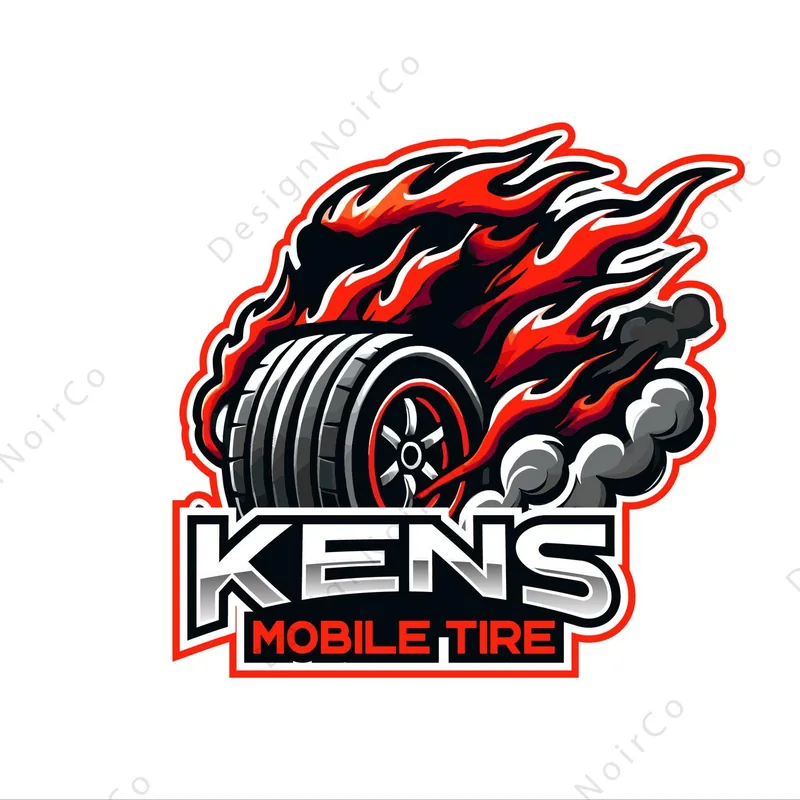
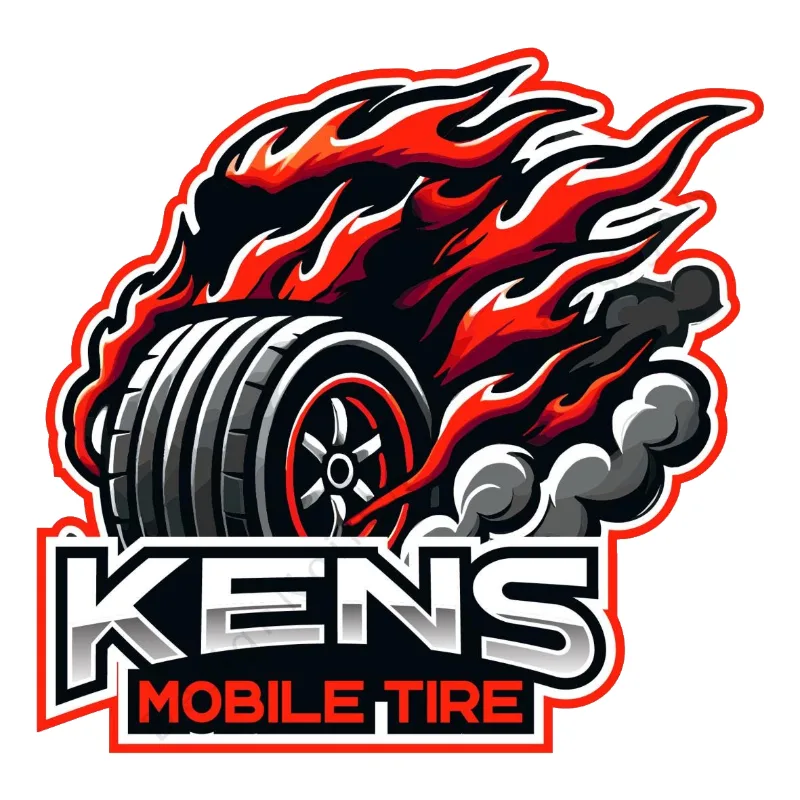
Regenerate the brand assets on black, on consistent ratios
Two changes only: the dark ground becomes the site black #080808, and the
four lockups and four badges go onto consistent ratios. Composition, the
marks and brand red #ed1c24 are untouched; filenames are unchanged and
every reference carries ?v=2 against the one-day /brand/* cache.

The lockup artwork is square (1209x1220 measured in the master), so
kens-light-* at 2:1 were letterboxes of it with large empty margins. All
four lockups are now 1200x1028 and 600x514 -- the numbers CustomerRequest
already declared -- so the images match the markup rather than the
attributes needing to change. All four badges are exactly 800x800.

The five icons go from 584 KB to 190 KB, icon-512 alone from 424 KB to
140 KB. Chromium only writes 32-bit PNG and made icon-512 larger, so the
icons are palette-indexed PNG from a median-cut quantiser on node:zlib.
No new dependency.

The t61 band existed because the logo files carried a navy ground baked
in. Regenerated on #080808 that reason is gone, so the band follows the
ground. Two navies were spelled rgba(13, 27, 36, 0.94) where no hex grep
reaches them, and .customer-shell .site-nav outranks the t61 block, so
the nav stayed navy through a fully green audit run until getComputedStyle
on the built page caught it.

Flattening the ground removes the seller's mark wherever it sat on flat
ground: the lockups and og image now measure 100.0% flat, 1.00:1 across
the margin band, against 1.38:1 on kens-light-1200 before. Where it
[…]

diff --git a/src/routes/CustomerRequest.jsx b/src/routes/CustomerRequest.jsx
@@ -432,8 +432,8 @@ function CustomerRequest({ navigate }) {
   const nextPageCount = Math.min(TIRE_PAGE_SIZE, hiddenTireCount)
   return (
     <div className="min-h-screen customer-shell">
-      <nav className="site-nav"><button className="brand-mark" onClick={() => navigate('/')} aria-label="KMT home"><img src="/brand/kens-dark-600.webp" alt="Ken's Mobile Tire" width="600" height="514" /></button><div className="site-links"><button className="active" onClick={() => document.getElementById('order')?.scrollIntoView({ behavior: 'smooth' })}>Order Tires</button><button onClick={() => document.getElementById('services')?.scrollIntoView({ behavior: 'smooth' })}>Services</button><button onClick={() => navigate('/status')}>My Quote</button></div><a className="phone-link" href={TEXT_HREF}>{TEXT_LABEL}</a></nav>
-      <section className="hero-section"><div className="hero-copy"><p className="eyebrow">I COME TO YOU</p><h1 data-testid="hero-heading">Mobile Tire<br /><span>Service</span></h1><p className="hero-lede">Tires. Repairs. Roadside assistance.<br />You deal with me, start to finish.</p><button className="hero-cta" onClick={() => document.getElementById('order')?.scrollIntoView({ behavior: 'smooth' })}>Order Tires <span>→</span></button></div><div className="hero-visual" aria-label="Ken's Mobile Tire brand"><img className="hero-logo" src="/brand/kens-dark-1200.webp" srcSet="/brand/kens-dark-600.webp 600w, /brand/kens-dark-1200.webp 1200w" sizes="(max-width: 760px) 72vw, 420px" width="1200" height="1028" alt="Ken's Mobile Tire logo" /><span className="hero-visual-label">REAL MOBILE SERVICE / BOSTON</span></div></section>
+      <nav className="site-nav"><button className="brand-mark" onClick={() => navigate('/')} aria-label="KMT home"><img src="/brand/kens-dark-600.webp?v=2" alt="Ken's Mobile Tire" width="600" height="514" /></button><div className="site-links"><button className="active" onClick={() => document.getElementById('order')?.scrollIntoView({ behavior: 'smooth' })}>Order Tires</button><button onClick={() => document.getElementById('services')?.scrollIntoView({ behavior: 'smooth' })}>Services</button><button onClick={() => navigate('/status')}>My Quote</button></div><a className="phone-link" href={TEXT_HREF}>{TEXT_LABEL}</a></nav>
+      <section className="hero-section"><div className="hero-copy"><p className="eyebrow">I COME TO YOU</p><h1 data-testid="hero-heading">Mobile Tire<br /><span>Service</span></h1><p className="hero-lede">Tires. Repairs. Roadside assistance.<br />You deal with me, start to finish.</p><button className="hero-cta" onClick={() => document.getElementById('order')?.scrollIntoView({ behavior: 'smooth' })}>Order Tires <span>→</span></button></div><div className="hero-visual" aria-label="Ken's Mobile Tire brand"><img className="hero-logo" src="/brand/kens-dark-1200.webp?v=2" srcSet="/brand/kens-dark-600.webp?v=2 600w, /brand/kens-dark-1200.webp?v=2 1200w" sizes="(max-width: 760px) 72vw, 420px" width="1200" height="1028" alt="Ken's Mobile Tire logo" /><span className="hero-visual-label">REAL MOBILE SERVICE / BOSTON</span></div></section>
       <section className="service-strip" id="services"><div><strong>◉</strong><span><b>I COME TO YOU</b>Home, work or roadside</span></div><div><strong>≡</strong><span><b>PRICE UP FRONT</b>See the whole quote before I turn up</span></div><div><strong>✓</strong><span><b>QUALITY SERVICE</b>Professional care every time</span></div><button className="btn btn-neutral" onClick={() => navigate('/inquiry')}>More than tires? Tell me</button></section>
       <main className="order-section" id="order"><div className="section-heading"><p className="eyebrow">SHOP KMT</p><h2>Order tires online</h2><p>Find the right fit for your vehicle and I&apos;ll handle the rest.</p></div><div className="order-steps" aria-label="Order progress">{['Tire size', 'Your vehicle', 'Mobile service'].map((label, index) => <div className={orderStep === index + 1 ? 'order-step current' : orderStep > index + 1 ? 'order-step complete' : 'order-step'} key={label}><span>{index + 1}</span><b>{label}</b></div>)}</div>
         <form noValidate onSubmit={handleFormSubmit} className="order-form">

diff --git a/src/routes/Inquiry.jsx b/src/routes/Inquiry.jsx
@@ -12,5 +12,5 @@ export default function Inquiry({ navigate }) {
     event.preventDefault(); setError(''); setSending(true)
     try { await submitInquiry(form); setSent(true) } catch (failure) { setError(failure.message) } finally { setSending(false) }
   }
-  return <div className="app-shell status-shell"><nav className="internal-nav"><button className="brand-word" onClick={() => navigate('/')} aria-label="KMT home"><img src="/brand/icon-64.png" alt="" width="64" height="64" className="brand-mark-icon" />KEN&apos;S<span> MOBILE TIRE</span></button><div className="internal-nav-links"><button className="btn btn-neutral" onClick={() => navigate('/')}>← Order tires</button></div></nav><main className="owner-content inquiry-page"><p className="eyebrow">MORE THAN TIRES</p><h1 className="owner-heading">Tell me what you need</h1>{sent ? <section className="panel inquiry-received" role="status"><h2>I got your message.</h2><p>I&apos;ll read it and text you back using the contact you left.</p><button className="btn btn-primary" onClick={() => navigate('/')}>Order tires instead</button></section> : <form className="panel inquiry-form" onSubmit={submit} noValidate><p>Flat repairs, roadside help and anything else that keeps you moving.</p><label>Name<input name="name" value={form.name} onChange={change} autoComplete="name" required /></label><label>Phone or email<input name="contact" value={form.contact} onChange={change} autoComplete="email" required /></label><label>Vehicle (optional)<input name="vehicleInfo" value={form.vehicleInfo} onChange={change} /></label><label>What do you need?<textarea name="message" value={form.message} onChange={change} required rows="5" /></label>{error && <p className="status-note status-note-bad" role="alert">{error}</p>}<button className="btn btn-primary" disabled={sending}>{sending ? 'Sending…' : 'Send message'}</button></form>}</main><PrivacyFooter navigate={navigate} /></div>
+  return <div className="app-shell status-shell"><nav className="internal-nav"><button className="brand-word" onClick={() => navigate('/')} aria-label="KMT home"><img src="/brand/icon-64.png?v=2" alt="" width="64" height="64" className="brand-mark-icon" />KEN&apos;S<span> MOBILE TIRE</span></button><div className="internal-nav-links"><button className="btn btn-neutral" onClick={() => navigate('/')}>← Order tires</button></div></nav><main className="owner-content inquiry-page"><p className="eyebrow">MORE THAN TIRES</p><h1 className="owner-heading">Tell me what you need</h1>{sent ? <section className="panel inquiry-received" role="status"><h2>I got your message.</h2><p>I&apos;ll read it and text you back using the contact you left.</p><button className="btn btn-primary" onClick={() => navigate('/')}>Order tires instead</button></section> : <form className="panel inquiry-form" onSubmit={submit} noValidate><p>Flat repairs, roadside help and anything else that keeps you moving.</p><label>Name<input name="name" value={form.name} onChange={change} autoComplete="name" required /></label><label>Phone or email<input name="contact" value={form.contact} onChange={change} autoComplete="email" required /></label><label>Vehicle (optional)<input name="vehicleInfo" value={form.vehicleInfo} onChange={change} /></label><label>What do you need?<textarea name="message" value={form.message} onChange={change} required rows="5" /></label>{error && <p className="status-note status-note-bad" role="alert">{error}</p>}<button className="btn btn-primary" disabled={sending}>{sending ? 'Sending…' : 'Send message'}</button></form>}</main><PrivacyFooter navigate={navigate} /></div>
 }

diff --git a/src/App.css b/src/App.css
@@ -192,7 +192,7 @@
   margin: 0 !important;
   padding: 13px clamp(18px, 4vw, 54px);
   border-bottom: 1px solid #171717;
-  background: rgba(13, 27, 36, 0.94);
+  background: rgba(8, 8, 8, 0.94);
 }
 
 .customer-shell .site-nav::before {
@@ -602,7 +602,7 @@
   margin: 0 auto;
   padding: 16px clamp(18px, 4vw, 54px);
   border-bottom: 1px solid var(--border);
-  background: rgba(13, 27, 36, 0.94);
+  background: rgba(8, 8, 8, 0.94);
 }
 
 .internal-nav .brand-word {
@@ -1588,18 +1588,20 @@
 .tire-show-more { display: inline-flex; flex-direction: column; align-items: center; gap: 2px; min-height: 44px; margin-top: 14px; }
 .tire-show-more small { font-size: 11px; font-weight: 400; letter-spacing: 0; text-transform: none; color: var(--muted); }
 
-/* The brand band (t61). The logo files carry their ground baked in, measured
-   at rgb(13, 28, 35) in every corner of every file, so on the black ground
-   the logo would show as a faint rectangle. The nav and the hero keep that
-   exact colour as a deliberate band, the logo sits on it with no shadow and
-   no radius to give it an edge, and everything below is the original black,
-   white and red. These come last so they win over the base and phone-width
-   hero rules above. */
-.site-nav, .internal-nav { background: #0d1c23; border-bottom-color: #1d3745; }
-.oi-nav { background: #0d1c23; border-bottom: 1px solid #1d3745; }
-.hero-section { background: radial-gradient(ellipse at 82% 44%, #1d3745 0, #122430 28%, #0d1c23 65%); }
-.hero-section::after { mask-image: linear-gradient(90deg, #0d1c23, transparent 68%); }
-.hero-visual { background: #0d1c23; }
+/* The brand band (t61), now black. The band existed because every logo file
+   carried a navy ground baked in, measured at rgb(13, 28, 35), which on a
+   black page showed as a faint rectangle. The files are regenerated on
+   #080808, the site's own black, so that reason is gone and the band
+   follows the ground: each navy maps back to the neutral grey of the same
+   lightness, which is t61's mapping run backwards and restores the values
+   the base rules already use. The logo still sits with no shadow, no border
+   and no radius, which is right on any ground. These come last so they win
+   over the base and phone-width hero rules above. */
+.site-nav, .internal-nav { background: #080808; border-bottom-color: #303033; }
+.oi-nav { background: #080808; border-bottom: 1px solid #303033; }
+.hero-section { background: radial-gradient(ellipse at 82% 44%, #303033 0, #121212 28%, #080808 65%); }
+.hero-section::after { mask-image: linear-gradient(90deg, #080808, transparent 68%); }
+.hero-visual { background: #080808; }
 .hero-logo { border: 0; border-radius: 0; box-shadow: none; }
 .brand-mark img { border-radius: 0; }
 .inquiry-page { max-width: 720px; }
@@ -1609,6 +1611,6 @@
 .inquiry-form textarea { min-height: 120px; resize: vertical; }
 .inquiry-received { display: grid; gap: 14px; }
 @media (max-width: 760px) {
-  .hero-section { background: radial-gradient(ellipse at 82% 44%, #24435400 0, #1d3745 0, #122430 30%, #0d1c23 66%); }
-  .hero-visual { background: #0d1c23; }
+  .hero-section { background: radial-gradient(ellipse at 82% 44%, #30303300 0, #303033 0, #121212 30%, #080808 66%); }
+  .hero-visual { background: #080808; }
 }

diff --git a/index.html b/index.html
@@ -2,9 +2,9 @@
 <html lang="en">
   <head>
     <meta charset="UTF-8" />
-    <link rel="icon" type="image/png" sizes="32x32" href="/brand/icon-32.png" />
-    <link rel="icon" type="image/png" sizes="192x192" href="/brand/icon-192.png" />
-    <link rel="apple-touch-icon" sizes="180x180" href="/brand/icon-180.png" />
+    <link rel="icon" type="image/png" sizes="32x32" href="/brand/icon-32.png?v=2" />
+    <link rel="icon" type="image/png" sizes="192x192" href="/brand/icon-192.png?v=2" />
+    <link rel="apple-touch-icon" sizes="180x180" href="/brand/icon-180.png?v=2" />
     <link rel="manifest" href="/manifest.webmanifest" />
     <meta name="theme-color" content="#080808" />
     <meta name="description" content="Mobile tire service in Malden, MA and Greater Boston. New tires fitted at your home, work or roadside." />
@@ -12,7 +12,7 @@
     <meta property="og:title" content="Mobile Tire Installation in Malden, MA | Ken's Mobile Tire" />
     <meta property="og:description" content="Mobile tire service around Malden, MA and Greater Boston. New tires fitted at your home or work." />
     <meta property="og:url" content="https://kensmobiletire.com/" />
-    <meta property="og:image" content="https://kensmobiletire.com/brand/og-1200x630.jpg" />
+    <meta property="og:image" content="https://kensmobiletire.com/brand/og-1200x630.jpg?v=2" />
     <meta name="twitter:card" content="summary_large_image" />
     <meta name="viewport" content="width=device-width, initial-scale=1.0" />
     <!-- Job and place first, brand last. A searcher types "mobile tire
@@ -34,8 +34,8 @@
         "name": "Ken's Mobile Tire",
         "description": "Mobile tire service in Malden, MA and Greater Boston. New tires fitted at your home, work or roadside.",
         "url": "https://kensmobiletire.com/",
-        "image": "https://kensmobiletire.com/brand/og-1200x630.jpg",
-        "logo": "https://kensmobiletire.com/brand/icon-512.png",
+        "image": "https://kensmobiletire.com/brand/og-1200x630.jpg?v=2",
+        "logo": "https://kensmobiletire.com/brand/icon-512.png?v=2",
         "telephone": "+1-617-410-8319",
         "address": {
           "@type": "PostalAddress",

diff --git a/src/owner/OwnerInventory.jsx b/src/owner/OwnerInventory.jsx
@@ -593,7 +593,7 @@ export default function OwnerInventory({ navigate }) {
     setPage(1)
   }
   return <div className="oi-shell">
-    <nav className="oi-nav"><button className="oi-brand" onClick={() => navigate('/')}><img src="/brand/icon-64.png" alt="" width="64" height="64" className="brand-mark-icon" />KEN&apos;S<span> MOBILE TIRE</span></button><span>OWNER WORKSPACE</span><MailAlert navigate={navigate} /><button className="oi-button" data-testid="nav-quote-requests" onClick={() => navigate('/owner/quotes')}>Quote requests →</button><button className="oi-button" onClick={leave}>Sign out</button></nav>
+    <nav className="oi-nav"><button className="oi-brand" onClick={() => navigate('/')}><img src="/brand/icon-64.png?v=2" alt="" width="64" height="64" className="brand-mark-icon" />KEN&apos;S<span> MOBILE TIRE</span></button><span>OWNER WORKSPACE</span><MailAlert navigate={navigate} /><button className="oi-button" data-testid="nav-quote-requests" onClick={() => navigate('/owner/quotes')}>Quote requests →</button><button className="oi-button" onClick={leave}>Sign out</button></nav>
     <main className="oi-content">
       <header className="oi-heading"><div><p className="oi-kicker">YOUR INVENTORY. YOUR PRICES.</p><h1>Build your tire offering</h1><p>Explore Giga Tires, choose what you want to offer, and set your price.</p></div><span className="oi-owner-badge">Owner only</span></header>
       <div className="oi-metrics">

diff --git a/src/routes/QuoteRequests.jsx b/src/routes/QuoteRequests.jsx
@@ -248,7 +248,7 @@ function QuoteRequests({ navigate, ownerVersion, setOwnerVersion }) {
   return (
     <div className="app-shell owner-shell">
       <nav className="internal-nav">
-        <button className="brand-word" onClick={() => navigate('/')} aria-label="KMT home"><img src="/brand/icon-64.png" alt="" width="64" height="64" className="brand-mark-icon" />KEN&apos;S<span> MOBILE TIRE</span></button>
+        <button className="brand-word" onClick={() => navigate('/')} aria-label="KMT home"><img src="/brand/icon-64.png?v=2" alt="" width="64" height="64" className="brand-mark-icon" />KEN&apos;S<span> MOBILE TIRE</span></button>
         <div className="internal-nav-links"><MailAlert navigate={navigate} /><button className="btn btn-neutral" data-testid="nav-inventory" onClick={() => navigate('/owner')}>← Inventory</button><button className="btn btn-neutral" onClick={() => navigate('/owner/outbox')}>Outbox</button><button className="btn btn-neutral" onClick={() => navigate('/')}>Back to Customer Flow</button><button className="btn btn-neutral" onClick={leave}>Sign out</button></div>
       </nav>
       <div className="owner-content">

diff --git a/src/routes/Outbox.jsx b/src/routes/Outbox.jsx
@@ -114,7 +114,7 @@ function Outbox({ navigate }) {
   return (
     <div className="app-shell owner-shell">
       <nav className="internal-nav">
-        <button className="brand-word" onClick={() => navigate('/')} aria-label="KMT home"><img src="/brand/icon-64.png" alt="" width="64" height="64" className="brand-mark-icon" />KEN&apos;S<span> MOBILE TIRE</span></button>
+        <button className="brand-word" onClick={() => navigate('/')} aria-label="KMT home"><img src="/brand/icon-64.png?v=2" alt="" width="64" height="64" className="brand-mark-icon" />KEN&apos;S<span> MOBILE TIRE</span></button>
         <div className="internal-nav-links"><button className="btn btn-neutral" onClick={() => navigate('/owner/quotes')}>← Quote Requests</button><button className="btn btn-neutral" onClick={() => navigate('/')}>Back to Customer Flow</button><button className="btn btn-neutral" onClick={leave}>Sign out</button></div>
       </nav>
       <div className="owner-content">

diff --git a/src/owner/SignIn.jsx b/src/owner/SignIn.jsx
@@ -74,7 +74,7 @@ export default function SignIn({ onSignedIn, navigate, what = 'this workspace', 
         want. Dropping it left an owner on /owner with no route to the quote
         list at all, which the dead-end audit caught. */}
     <nav className="oi-nav">
-      <button className="oi-brand" onClick={() => navigate('/')}><img src="/brand/icon-64.png" alt="" width="64" height="64" className="brand-mark-icon" />KEN&apos;S<span> MOBILE TIRE</span></button>
+      <button className="oi-brand" onClick={() => navigate('/')}><img src="/brand/icon-64.png?v=2" alt="" width="64" height="64" className="brand-mark-icon" />KEN&apos;S<span> MOBILE TIRE</span></button>
       <span>OWNER WORKSPACE</span>
       <button className="oi-button" onClick={() => navigate(other.path)}>{other.label}</button>
     </nav>

diff --git a/src/routes/Privacy.jsx b/src/routes/Privacy.jsx
@@ -12,7 +12,7 @@ function Privacy({ navigate }) {
   return (
     <div className="app-shell status-shell">
       <nav className="internal-nav">
-        <button className="brand-word" onClick={() => navigate('/')} aria-label="KMT home"><img src="/brand/icon-64.png" alt="" width="64" height="64" className="brand-mark-icon" />KEN&apos;S<span> MOBILE TIRE</span></button>
+        <button className="brand-word" onClick={() => navigate('/')} aria-label="KMT home"><img src="/brand/icon-64.png?v=2" alt="" width="64" height="64" className="brand-mark-icon" />KEN&apos;S<span> MOBILE TIRE</span></button>
         <div className="internal-nav-links"><a href="/" onClick={go('/')} className="btn btn-neutral">← Order tires</a></div>
       </nav>
       <div className="owner-content">

diff --git a/src/routes/Status.jsx b/src/routes/Status.jsx
@@ -92,7 +92,7 @@ function Status({ navigate }) {
   return (
     <div className="app-shell status-shell">
       <nav className="internal-nav">
-        <button className="brand-word" onClick={() => navigate('/')} aria-label="KMT home"><img src="/brand/icon-64.png" alt="" width="64" height="64" className="brand-mark-icon" />KEN&apos;S<span> MOBILE TIRE</span></button>
+        <button className="brand-word" onClick={() => navigate('/')} aria-label="KMT home"><img src="/brand/icon-64.png?v=2" alt="" width="64" height="64" className="brand-mark-icon" />KEN&apos;S<span> MOBILE TIRE</span></button>
         <div className="internal-nav-links">
           <button className="btn btn-neutral" onClick={() => navigate('/')}>← New Request</button>
         </div>

diff --git a/src/routes/Confirmation.jsx b/src/routes/Confirmation.jsx
@@ -125,7 +125,7 @@ function Confirmation({ navigate }) {
   return (
     <div className="app-shell confirmation-shell">
       <nav className="internal-nav">
-        <button className="brand-word" onClick={() => navigate('/')} aria-label="KMT home"><img src="/brand/icon-64.png" alt="" width="64" height="64" className="brand-mark-icon" />KEN&apos;S<span> MOBILE TIRE</span></button>
+        <button className="brand-word" onClick={() => navigate('/')} aria-label="KMT home"><img src="/brand/icon-64.png?v=2" alt="" width="64" height="64" className="brand-mark-icon" />KEN&apos;S<span> MOBILE TIRE</span></button>
       </nav>
       <div className="confirmation-content">
         <div className="panel confirmation-card">{panel}</div>

diff --git a/src/routes/NotFound.jsx b/src/routes/NotFound.jsx
@@ -14,7 +14,7 @@ function NotFound({ navigate, path }) {
   return (
     <div className="app-shell status-shell">
       <nav className="internal-nav">
-        <button className="brand-word" onClick={() => navigate('/')} aria-label="KMT home"><img src="/brand/icon-64.png" alt="" width="64" height="64" className="brand-mark-icon" />KEN&apos;S<span> MOBILE TIRE</span></button>
+        <button className="brand-word" onClick={() => navigate('/')} aria-label="KMT home"><img src="/brand/icon-64.png?v=2" alt="" width="64" height="64" className="brand-mark-icon" />KEN&apos;S<span> MOBILE TIRE</span></button>
       </nav>
       <div className="owner-content">
         <p className="eyebrow">NOT FOUND</p>
